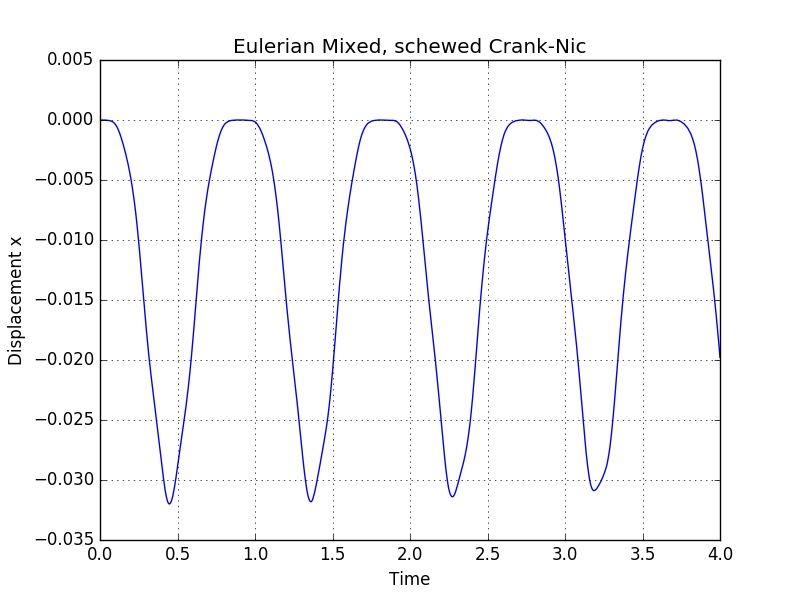
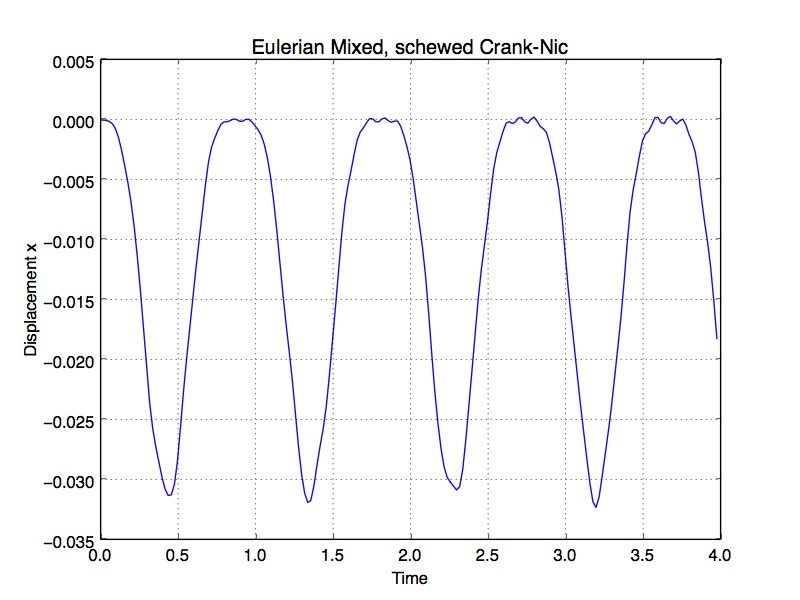
setup for test ing adam bashford

diff --git a/FSIVerification/semi-imp-project/Structure-verification/turek_crank.py b/FSIVerification/semi-imp-project/Structure-verification/turek_crank.py
@@ -46,28 +46,45 @@ def s_s_n_l(d):
     #J = det(F)
     return (lamda*tr(E)*I + 2*mu_s*E)
 
-def piola_adam(d, d0, d_1, lamda, mu):
+#Test for solving d directly
+def piola_adam(d_n, d_n1, d_n2, lamda, mu):
     I = Identity(2)
-    return lamda/8. *( tr((3*grad(d0) - grad(d_1))*(grad(d) + grad(d0)) - I) * I \
-    + mu*(grad(d) + grad(d0)) + mu/4.*(grad(d) + grad(d0))*(3*grad(d0).T - grad(d_1).T) )
+    E = 1/4.*( (grad(d_n).T + grad(d_n2).T + grad(d_n) + grad(d_n2)) \
+    + (3*grad(d_n1) - grad(d_n2)).T * (grad(d_n) + grad(d_n2)) )
 
+    return (lamda*tr(E)*I + 2*mu_s*E)
+
+#Test for solving d and
+def piola_adam2(d_n, d_n1, d_n2, lamda, mu):
+    I = Identity(2)
+    E = 1/4.*( (grad(d_n).T + grad(d_n1).T + grad(d_n) + grad(d_n1)) \
+    + (3*grad(d_n1) - grad(d_n2)).T * (grad(d_n) + grad(d_n1)) )
+
+    return (lamda*tr(E)*I + 2*mu_s*E)
 
 
 #Second order derivative
 if implementation =="1":
-    bcs = DirichletBC(V, ((0,0)), boundaries, 1)
+    bcs = DirichletBC(V, ((0, 0)), boundaries, 1)
     psi = TestFunction(V)
     d = Function(V)
     d0 = Function(V)
     d1 = Function(V)
 
-    G =rho_s*((1./k**2)*inner(d - 2*d0 + d1, psi))*dx - inner(g,psi)*dx\
-    + inner(s_s_n_l(0.5*(d + d1)), grad(psi))*dx
+    #Testing proposed tensor
+    G =rho_s*((1./k**2)*inner(d - 2*d0 + d1, psi))*dx \
+    + inner(piola_adam(d, d0, d1, lamda, mu_s), grad(psi))*dx \
+    - inner(g,psi)*dx
+
+    #original
+    #G =rho_s*((1./k**2)*inner(d - 2*d0 + d1, psi))*dx - inner(g,psi)*dx\
+    #+ inner(s_s_n_l(0.5*(d + d1)), grad(psi))*dx
+
 
 #Split problem to two 1.order differential equations
 if implementation =="2":
-    bc1 = DirichletBC(VV.sub(0), ((0,0)), boundaries, 1)
-    bc2 = DirichletBC(VV.sub(1), ((0,0)), boundaries, 1)
+    bc1 = DirichletBC(VV.sub(0), ((0, 0)), boundaries, 1)
+    bc2 = DirichletBC(VV.sub(1), ((0, 0)), boundaries, 1)
     bcs = [bc1,bc2]
     psi, phi = TestFunctions(VV)
     wd = Function(VV)
@@ -91,13 +108,14 @@ if implementation =="3":
     w0 = Function(V); w_1 = Function(V)
     d0 = Function(V); d_1 = Function(V)
 
-    G = rho_s/k*inner(w - w0, psi)*dx - inner(grad(piola_adam(d, d0, d_1, lamda, mu_s)), grad(psi) )*dx \
-    + 1./k*(d - d0) - 0.5*(w + w0)*dx
+    G = rho_s/k*inner(w - w0, psi)*dx + inner(piola_adam2(d, d0, d_1, lamda, mu_s), grad(psi) )*dx \
+    - inner(g,psi)*dx \
+    + 1./k*inner(d - d0, phi)*dx - 0.5*inner(w + w0, phi)*dx
 
 
 T = 4
 t = 0
-time = np.linspace(0, T, (T/dt)+1)
+
 
 #dis_file = File("results/x_direction.pvd")
 
@@ -109,7 +127,7 @@ while t <= T:
         {"relative_tolerance": 1E-8,"absolute_tolerance":1E-8,"maximum_iterations":100,"relaxation_parameter":1.0}})
         d1.assign(d0)
         d0.assign(d)
-        print "Timestep: ",t#,"Error: ",e_list[counter]
+
         dis_x.append(d(coord)[0])
         dis_y.append(d(coord)[1])
         time.append(t)
@@ -132,9 +150,11 @@ while t <= T:
     if implementation =="3":
         solve(G == 0, wd, bcs, solver_parameters={"newton_solver": \
         {"relative_tolerance": 1E-8,"absolute_tolerance":1E-8,"maximum_iterations":100,"relaxation_parameter":1.0}})
-        w0d0.assign(wd)
-        w0,d0 = w0d0.split(True)
-        d_1.append(d0)
+        w, d = wd.split(True)
+        d_1.assign(d0)
+        d0.assign(d)
+        w0.assign(w)
+
         dis_x.append(d0(coord)[0])
         dis_y.append(d0(coord)[1])
         time.append(t)
@@ -147,12 +167,12 @@ while t <= T:
 title = plt.title("Double space")
 
 plt.figure(1)
-plt.title("Eulerian Mixed, schewed Crank-Nic")
+plt.title("implementation %s, x-dir" % (implementation))
 plt.plot(time,dis_x,);title; plt.ylabel("Displacement x");plt.xlabel("Time");plt.grid();
-plt.savefig("run_x.jpg")
+plt.savefig("run_x_imp%s.jpg" % (implementation))
 #plt.show()
 plt.figure(2)
-plt.title("Eulerian Mixed, schewed Crank-Nic")
+plt.title("implementation %s, y_dir" % (implementation))
 plt.plot(time,dis_y);title;plt.ylabel("Displacement y");plt.xlabel("Time");plt.grid();
-plt.savefig("run_y.jpg")
+plt.savefig("run_y_imp%s.jpg" % (implementation))
 #plt.show()
